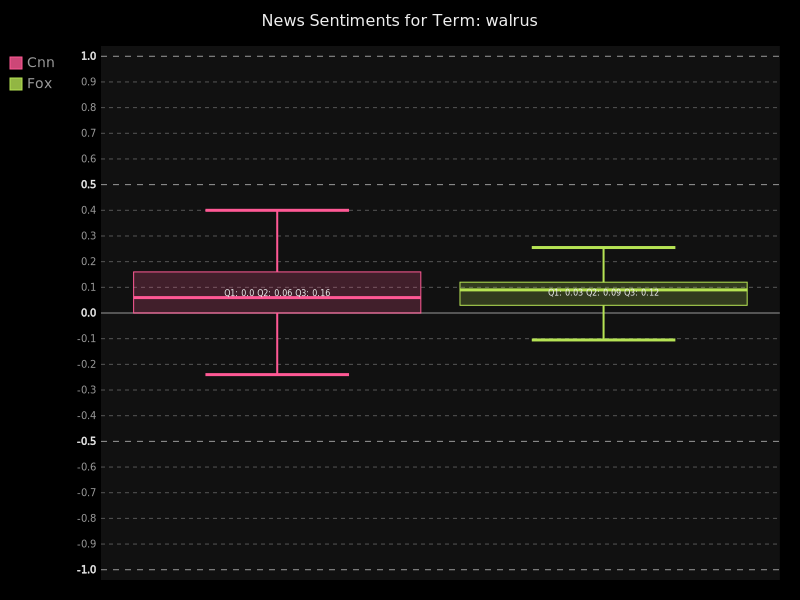
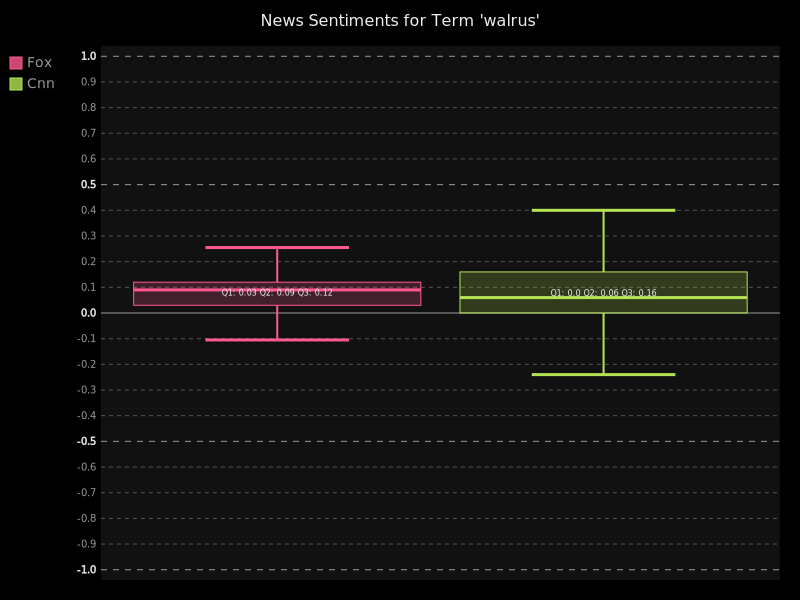
Some clean-up

diff --git a/main.py b/main.py
@@ -5,7 +5,7 @@ import webbrowser
 
 def makeChart(term):
    chart = pygal.Box(range=(-1, 1))
-   chart.title = 'News Sentiments for Term: ' + term
+   chart.title = 'News Sentiments for Term \'' + term + '\''
 
    cnn = NewsSentiment.Cnn()
    fox = NewsSentiment.Fox()
